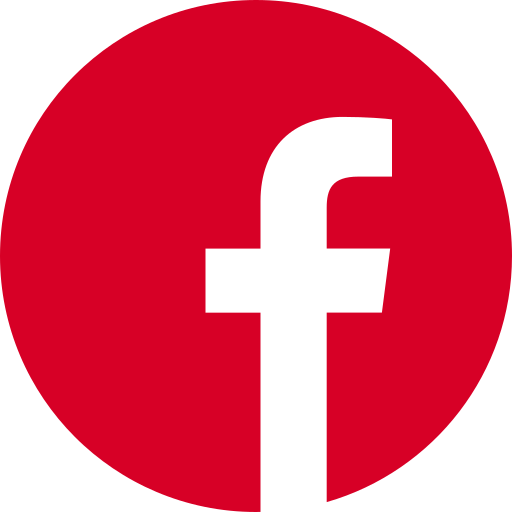
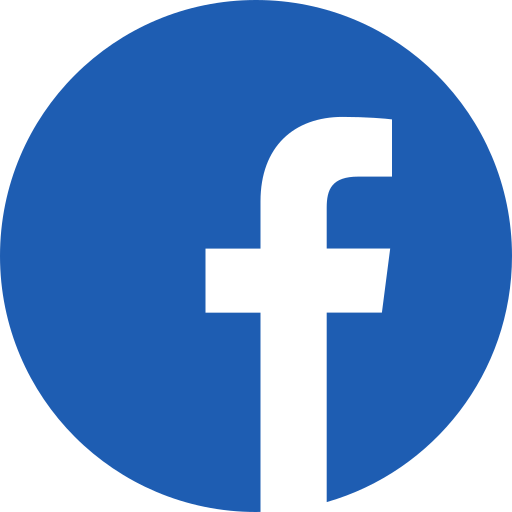
26-02-2024

diff --git a/styles/index.css b/styles/index.css
@@ -34,7 +34,7 @@ ul.menu a {
   transition: 0.3s;
 }
 ul.menu a:hover {
-  color: #edb83d;
+  color: #1E5DB2;
 }
 
 /* Vista uno */
@@ -43,19 +43,22 @@ ul.menu a:hover {
   width: 100%;
   display: flex;
   align-items: center;
-  margin-top: 150px;
+  margin-top: 50px;
+  background-color: #1E5DB2;
+  padding: 80px 0 ;
+  margin-bottom: 80px;
 }
 .contenedor-uno {
   width: 50%;
   padding: 0 40px;
 }
 .contenedor-uno h1 {
-  color: #d70026;
+  color: white;
   font-size: 3em;
   margin: 0;
 }
 .contenedor-uno h2 {
-  color: #d70026;
+  color: white;
   font-size: 2em;
   margin: 0;
   margin-bottom: 40px;
@@ -65,11 +68,12 @@ ul.menu a:hover {
 }
 .contenedor-uno a {
   padding: 10px 20px;
-  background-color: #d70026;
+  background-color: white;
   border-radius: 20px;
   font-size: 1.2em;
   text-decoration: none;
-  color: white;
+  color: #1E5DB2;
+  font-weight: 700;
 }
 .contenedor-dos {
   width: 50%;
@@ -78,10 +82,6 @@ ul.menu a:hover {
 .contenedor-dos img {
   width: 400px;
   margin: auto;
-}
-.separacion {
-  width: 100%;
-  margin: 60px 0;
 }
 
 /* Logos */
@@ -109,7 +109,7 @@ ul.menu a:hover {
 /* Servicios */
 
 .amarillo {
-  background-color: #edb83d;
+  background-color: #1E5DB2;
   display: flex;
   align-items: center;
 }
@@ -118,16 +118,17 @@ ul.menu a:hover {
   margin: auto;
 }
 .amarillo .left h3 {
-  color: #d70026;
+  color: white;
   font-size: 2em;
 }
 .amarillo .left p {
   margin-bottom: 40px;
 }
 .amarillo .left a {
-  background-color: #d70026;
+  background-color: white;
   padding: 10px 20px;
-  color: #edb83d;
+  color: #1E5DB2;
+  font-weight: 700;
   text-decoration: none;
   border-radius: 20px;
   font-size: 1.2em;
@@ -144,7 +145,7 @@ ul.menu a:hover {
 /* ----------------------------------------------- */
 
 .rojo {
-  background-color: #d70026;
+  background-color: white;
   display: flex;
   align-items: center;
 }
@@ -158,17 +159,17 @@ ul.menu a:hover {
   object-fit: cover;
 }
 .rojo .right h3 {
-  color: #edb83d;
+  color: #1E5DB2;
   font-size: 2em;
 }
 .rojo .right p {
   margin-bottom: 40px;
-  color: white;
+  color: black;
 }
 .rojo .right a {
-  background-color: #edb83d;
+  background-color: #1E5DB2;
   padding: 10px 20px;
-  color: #d70026;
+  color: white;
   text-decoration: none;
   border-radius: 20px;
   font-size: 1.2em;
@@ -181,12 +182,12 @@ ul.menu a:hover {
 /* nosotros----------------------------- */
 
 .nosotros {
-  background-color: #edb83d;
+  background-color: #1E5DB2;
   padding: 40px;
   text-align: center;
 }
 .nosotros h3 {
-  color: #d70026;
+  color: white;
   font-size: 2em;
 }
 .ofrecemos {
@@ -200,7 +201,7 @@ ul.menu a:hover {
 }
 .tarjetaUno {
   color: white;
-  background-color: #edb83d;
+  background-color: #1E5DB2;
   width: 90%;
   padding: 20px 40px;
   margin-top: 40px;
@@ -210,7 +211,7 @@ ul.menu a:hover {
   margin-top: 20px;
 }
 .tarjetaUno h4 {
-  color: #d70026;
+  color: white;
   font-size: 2em;
   margin: 20px 0;
 }
@@ -224,8 +225,8 @@ ul.menu a:hover {
 }
 .tarjetaDos {
   margin-top: 40px;
-  color: white;
-  background-color: #d70026;
+  color: black;
+  background-color: #22BEEB;
   width: 90%;
   padding: 20px 40px;
 }
@@ -234,7 +235,7 @@ ul.menu a:hover {
   margin-top: 20px;
 }
 .tarjetaDos h4 {
-  color: #edb83d;
+  color: white;
   font-size: 2em;
   margin: 20px 0;
 }
@@ -253,7 +254,7 @@ ul.menu a:hover {
   margin-top: 20px;
 }
 .tarjetaTres h4 {
-  color: #d70026;
+  color: #1E5DB2;
   font-size: 2em;
   margin: 20px 0;
 }
@@ -274,14 +275,14 @@ ul.menu a:hover {
 }
 .contacto .contacto-left {
   width: 50%;
-  background-color: #edb83d;
+  background-color: white;
   display: flex;
   flex-direction: column;
   justify-content: center;
   padding: 20px;
 }
 .contacto-left h3 {
-  color: #d70026;
+  color: #1E5DB2;
   font-size: 1.3em;
 }
 .contacto-left p {
@@ -289,7 +290,7 @@ ul.menu a:hover {
 }
 .formulario {
   width: 50%;
-  background-color: #d70026;
+  background-color: #1E5DB2;
 }
 .formulario form {
   display: flex;
@@ -299,6 +300,7 @@ ul.menu a:hover {
 form input {
   margin-bottom: 20px;
   padding: 10px;
+  border: none;
 }
 .icons {
   width: 100%;
@@ -313,8 +315,8 @@ form input {
   margin-top: 20px;
   border-radius: 20px;
   border: none;
-  background-color: #edb83d;
-  color: #d70026;
+  background-color: white;
+  color: #1E5DB2;
   font-weight: 700;
   cursor: pointer;
 }
@@ -333,14 +335,22 @@ form input {
   }
   .menu .logo img {
     width: 80px;
-    margin-right: 10px;
-    display: none;
+    margin-right: 5px;
+    margin-left: 5px;
   }
   ul.menu a {
+    display: block;
+    color: white;
+    text-decoration: none;
+    padding: 25px 6px;
+    transition: 0.3s;
     font-size: 0.8em;
   }
   ul.menu li {
     margin-right: 0px;
+  }
+  ul.menu{
+    justify-content: space-between;
   }
   /* Vista uno */
   .vista-uno {
@@ -365,14 +375,14 @@ form input {
   }
   /* Logos */
   .logos img {
-    width: 150px;
-    height: 80px;
+    width: 100px;
+    height: 50px;
     margin-bottom: 20px;
   }
   .logos-uno,
   .logos-dos {
-    flex-direction: column;
     align-items: center;
+    flex-wrap: wrap;
   }
   .parrafo-logos {
     font-size: 1.5em;

diff --git a/index.html b/index.html
@@ -33,7 +33,6 @@
             <img src="/assets/index/rocket.webp" alt="Cohete 1" title="GIF de David Montero de Pixabay">
         </div>
     </section>
-    <img src="/assets/index/estrellas.jpg" alt="Separacion" class="separacion">
     <section class="logos">
         <div class="logos-uno">
             <img src="/assets/index/youtube.png" alt="Youtube advertising">
@@ -117,11 +116,7 @@
     <section class="nosotros" id="nosotros">
         <h3>Un poco sobre nosotros</h3>
         <p>En Total Medios nos dedicamos a impulsar tu presencia en el mundo digital y físico mediante soluciones
-            creativas y efectivas. Con un equipo apasionado por la innovación y el diseño, nos especializamos en la
-            impresión de flyers de alta calidad, campañas publicitarias masivas impactantes, desarrollo de páginas web a
-            medida y gestión estratégica de redes sociales. Nuestro compromiso es ayudarte a alcanzar tus objetivos
-            comerciales, conectando tu marca con tu audiencia de manera memorable y relevante en todos los medios
-            posibles. En Total Medios, convertimos ideas en resultados tangibles.</p>
+            creativas y efectivas.</p>
     </section>
     <section class="ofrecemos">
         <h2>En Total Medios te ofrecemos:</h2>
@@ -131,11 +126,7 @@
                 <h4>Compromiso</h4>
                 <p>En Total Medios, nos comprometemos a proporcionarte soluciones integrales y personalizadas que
                     impulsen
-                    el éxito de tu negocio. Nos esforzamos por mantenernos a la vanguardia de las últimas tendencias y
-                    tecnologías en
-                    impresión, diseño web y redes sociales, para que tu marca destaque en un mercado cada vez más
-                    competitivo. Con Total Medios, puedes confiar en un socio confiable y dedicado que trabaja
-                    incansablemente para hacer realidad tus metas comerciales.</p>
+                    el éxito de tu negocio.</p>
             </div>
             <div class="cont">
                 <div class="tarjetaDos">
@@ -145,10 +136,7 @@
                         medio
                         ambiente. Nos comprometemos a ofrecer servicios de alta calidad que cumplan con los más altos
                         estándares
-                        éticos y profesionales. Además, nos esforzamos por operar de manera sostenible, minimizando nuestro
-                        impacto en el medio ambiente a través de prácticas ecoamigables en nuestra producción y operaciones.
-                        Creemos en la transparencia, la integridad y la honestidad en todas nuestras interacciones, y nos
-                        esforzamos por construir relaciones a largo plazo basadas en la confianza mutua y el respeto.</p>
+                        éticos y profesionales.</p>
                 </div>
             </div>
             <div class="tarjetaTres">
@@ -157,21 +145,13 @@
                 <p>En Total Medios, la innovación es el motor que impulsa cada uno de nuestros proyectos. Estamos
                     comprometidos a permanecer a la vanguardia de la industria, explorando constantemente nuevas
                     tecnologías
-                    y tendencias emergentes para ofrecer soluciones creativas y efectivas a nuestros clientes. Desde la
-                    implementación de técnicas de impresión de última generación hasta la adopción de estrategias de
-                    marketing digital innovadoras, nos esforzamos por superar los límites y ofrecer resultados que
-                    sorprendan y deleiten. En Total Medios, creemos en desafiar lo convencional y en encontrar nuevas
-                    formas
-                    de hacer que tu marca se destaque en un mundo en constante evolución.</p>
+                    y tendencias emergentes para ofrecer soluciones creativas y efectivas a nuestros clientes.</p>
             </div>
     </section>
     <section class="contacto" id="contacto">
         <div class="contacto-left">
             <h3>Mantengamos el contacto</h3>
-            <p>¿Listo para llevar tu marca al siguiente nivel? ¡Nos encantaría escuchar de ti! Puedes contactarnos a
-                través de nuestro formulario en línea. Nuestro equipo amigable y experto está aquí para responder a todas
-                tus preguntas, discutir tus ideas y trabajar contigo para encontrar la mejor solución para tus
-                necesidades. ¡No dudes en ponerte en contacto con Total Medios hoy mismo y comienza a hacer realidad tus
+            <p>¿Listo para llevar tu marca al siguiente nivel? ¡No dudes en ponerte en contacto con Total Medios hoy mismo y comienza a hacer realidad tus
                 objetivos comerciales</p>
                 <div class="icons">
                     <a href="#"><img src="/assets/iconos/instagram.png" alt=""></a>
